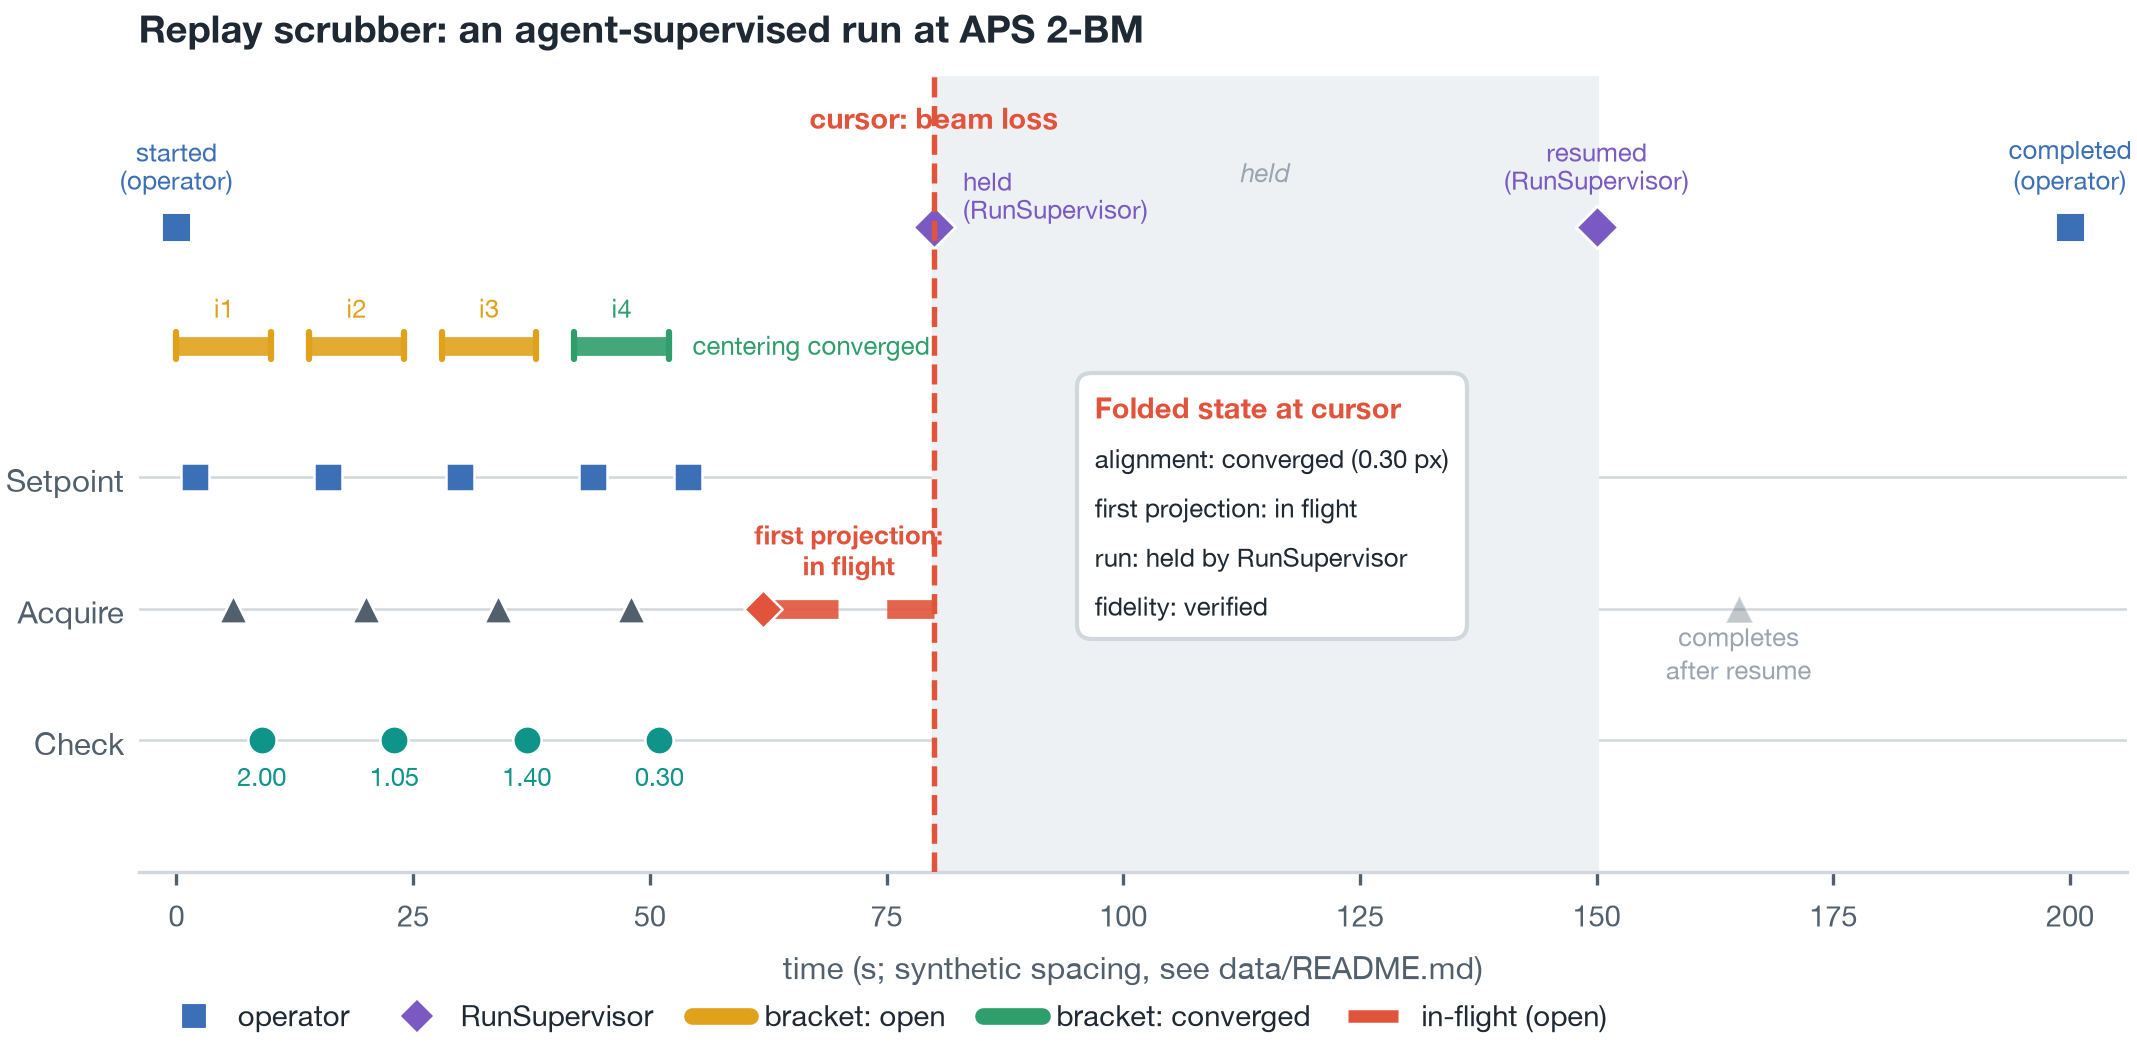
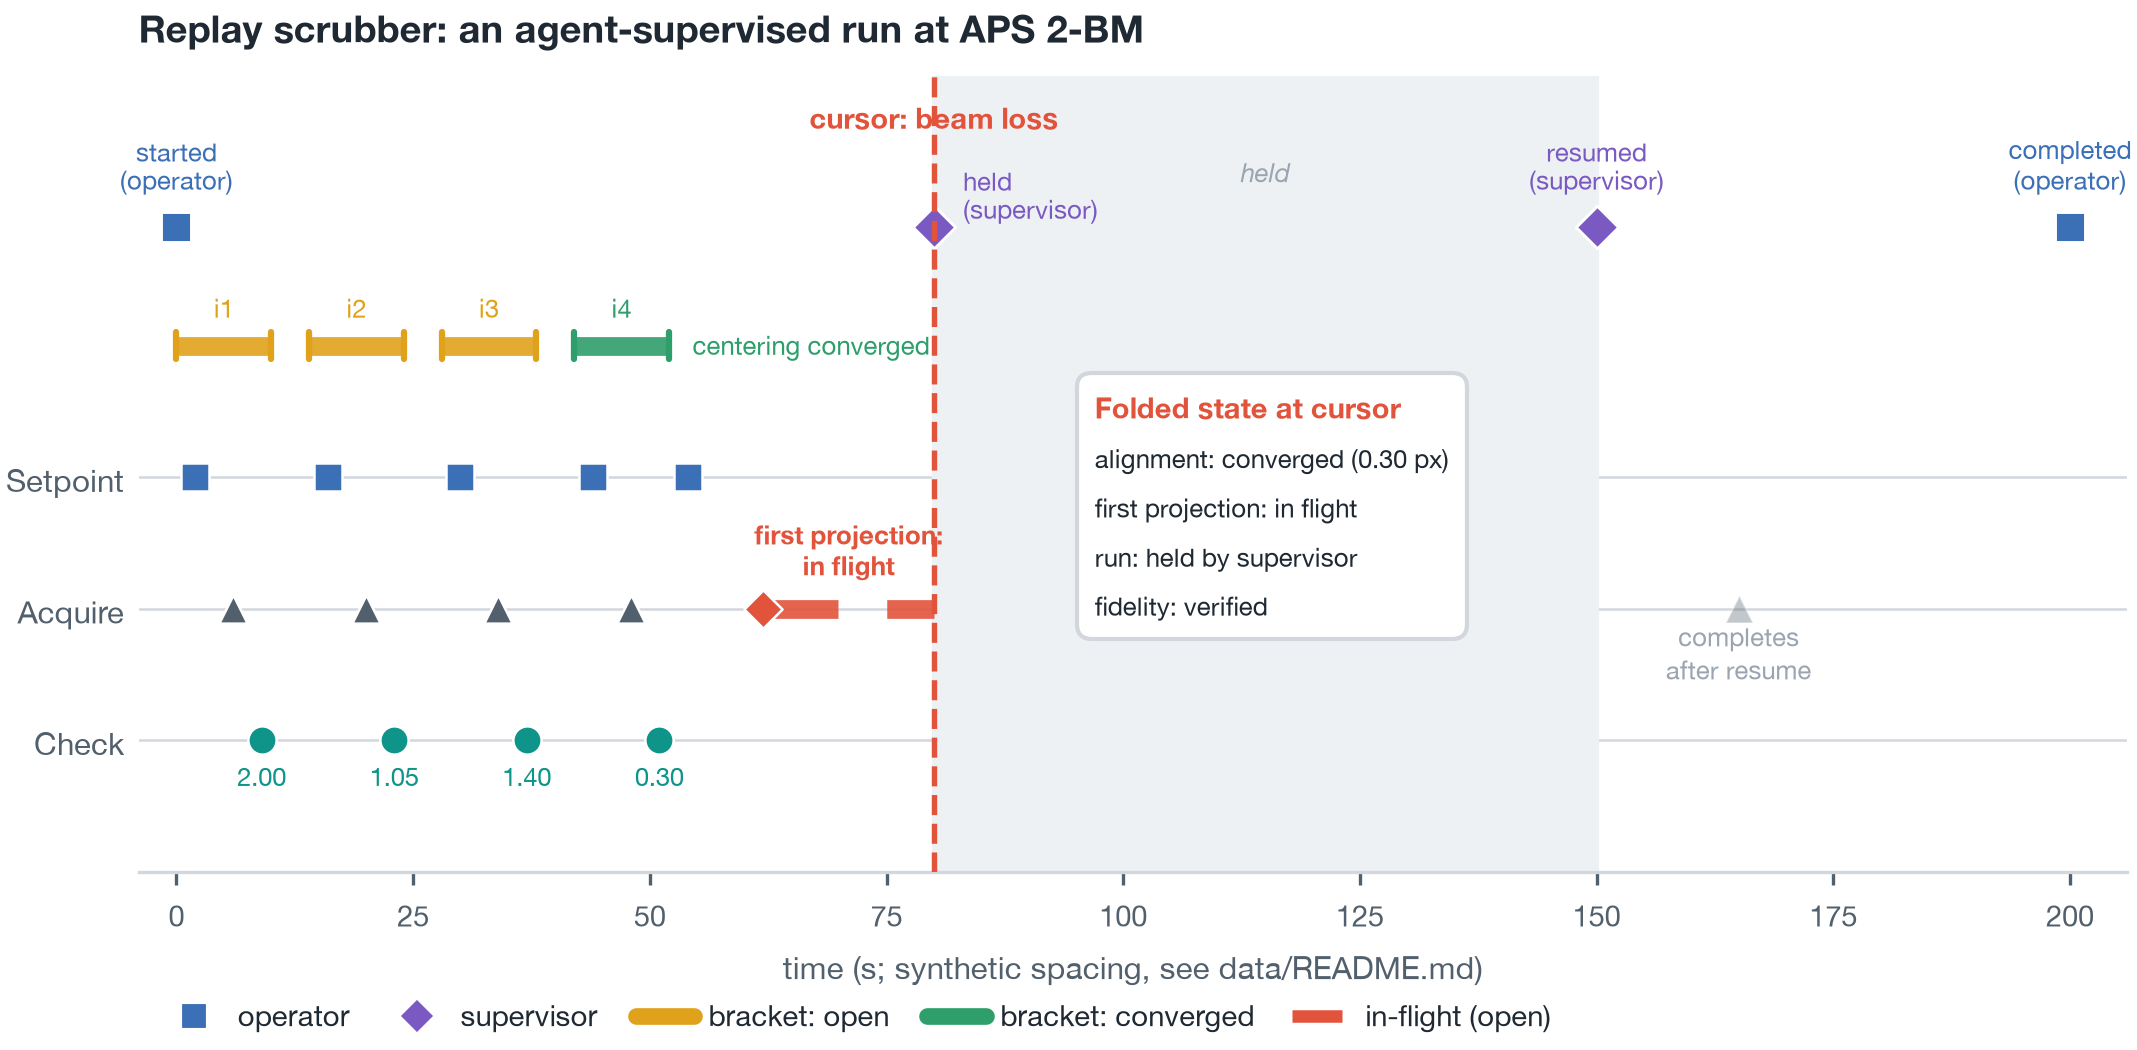
docs(papers): align figure labels to prose (RunSupervisor -> supervisor)
The figures still showed the code identifier "RunSupervisor" in the
who-drove-it lane, the folded-state readout, the legend (F1), and the
run-status line (F3). Prose calls the actor "the supervisor" / "supervisor
agent", and a code identifier is exactly the jargon the paper avoids.
Relabel the rendered strings to "supervisor" (lowercase, parallel to
"operator") and re-render F1 and F3. Recorded-actor data values in the
JSON are left unchanged; only display strings move.

diff --git a/papers/2026-vaxautosci-scrubber/figures/render_f1.py b/papers/2026-vaxautosci-scrubber/figures/render_f1.py
@@ -2,7 +2,7 @@
 """Render Figure 1, the replay scrubber, from data/lights_out_run.json.
 
 Static rendering of the interactive scrubber over one agent-supervised
-run: a run-lifecycle / who-drove-it lane (operator vs RunSupervisor),
+run: a run-lifecycle / who-drove-it lane (operator vs supervisor),
 per-iteration convergence brackets colored by verdict (the rotation-axis
 centering search), activity swim-lanes, a shaded held band, and a fold-to-
 version cursor parked at the beam-loss instant, where the first projection is an
@@ -72,7 +72,7 @@ def main() -> None:
                    edgecolors="white", linewidths=0.7, zorder=4)
         label = {"RunStarted": "started", "RunHeld": "held", "RunResumed": "resumed",
                  "RunCompleted": "completed"}[ev["type"]]
-        who = "RunSupervisor" if agent else "operator"
+        who = "supervisor" if agent else "operator"
         dx, dy, ha = label_pos[ev["type"]]
         ax.annotate(f"{label}\n({who})", (x, Y_RUN), textcoords="offset points",
                     xytext=(dx, dy), ha=ha, fontsize=s.SIZE["small"], color=col,
@@ -137,7 +137,7 @@ def main() -> None:
         _row("Folded state at cursor", s.ALARM, "bold", s.SIZE["anno"]),
         _row("alignment: converged (0.30 px)", s.INK),
         _row("first projection: in flight", s.INK),
-        _row("run: held by RunSupervisor", s.INK),
+        _row("run: held by supervisor", s.INK),
         _row("fidelity: verified", s.INK),
     ])
     card = AnchoredOffsetbox(loc="center", child=readout, pad=0.6, borderpad=0,
@@ -162,7 +162,7 @@ def main() -> None:
         Line2D([0], [0], marker="s", color="w", markerfacecolor=s.OPERATOR,
                markersize=6.5, label="operator"),
         Line2D([0], [0], marker="D", color="w", markerfacecolor=s.AGENT,
-               markersize=6.5, label="RunSupervisor"),
+               markersize=6.5, label="supervisor"),
         Line2D([0], [0], color=s.WARN, lw=4, label="bracket: open"),
         Line2D([0], [0], color=s.GOOD, lw=4, label="bracket: converged"),
         Line2D([0], [0], color=s.ALARM, lw=3, ls=(0, (4, 2.6)), label="in-flight (open)"),

diff --git a/papers/2026-vaxautosci-scrubber/figures/_style.py b/papers/2026-vaxautosci-scrubber/figures/_style.py
@@ -53,7 +53,7 @@ PANEL = "#F4F6F8"    # subtle panel / card fill
 HELD = "#EEF1F4"     # shaded "held" band
 
 OPERATOR = "#3B6FB6"  # human-driven
-AGENT = "#7A5AC2"     # agent / RunSupervisor (distinct from the alarm hue)
+AGENT = "#7A5AC2"     # agent / supervisor (distinct from the alarm hue)
 GOOD = "#2E9E6B"      # converged, verified, closed
 WARN = "#E0A21B"      # open, not-yet-converged
 ALARM = "#E2533B"     # cursor, beam loss, in-flight without outcome

diff --git a/papers/2026-vaxautosci-scrubber/figures/render_f3.py b/papers/2026-vaxautosci-scrubber/figures/render_f3.py
@@ -78,7 +78,7 @@ def main() -> None:
         ax.set_ylim(-1.0, 1.05)
         s.despine(ax, keep=("bottom",))
 
-    lane(axes[0], cursor=beam_loss, closed=False, run_status="HELD (RunSupervisor)",
+    lane(axes[0], cursor=beam_loss, closed=False, run_status="HELD (supervisor)",
          tag="cursor at beam loss")
     lane(axes[1], cursor=end + 5, closed=True, run_status="COMPLETED",
          tag="cursor after resume")
